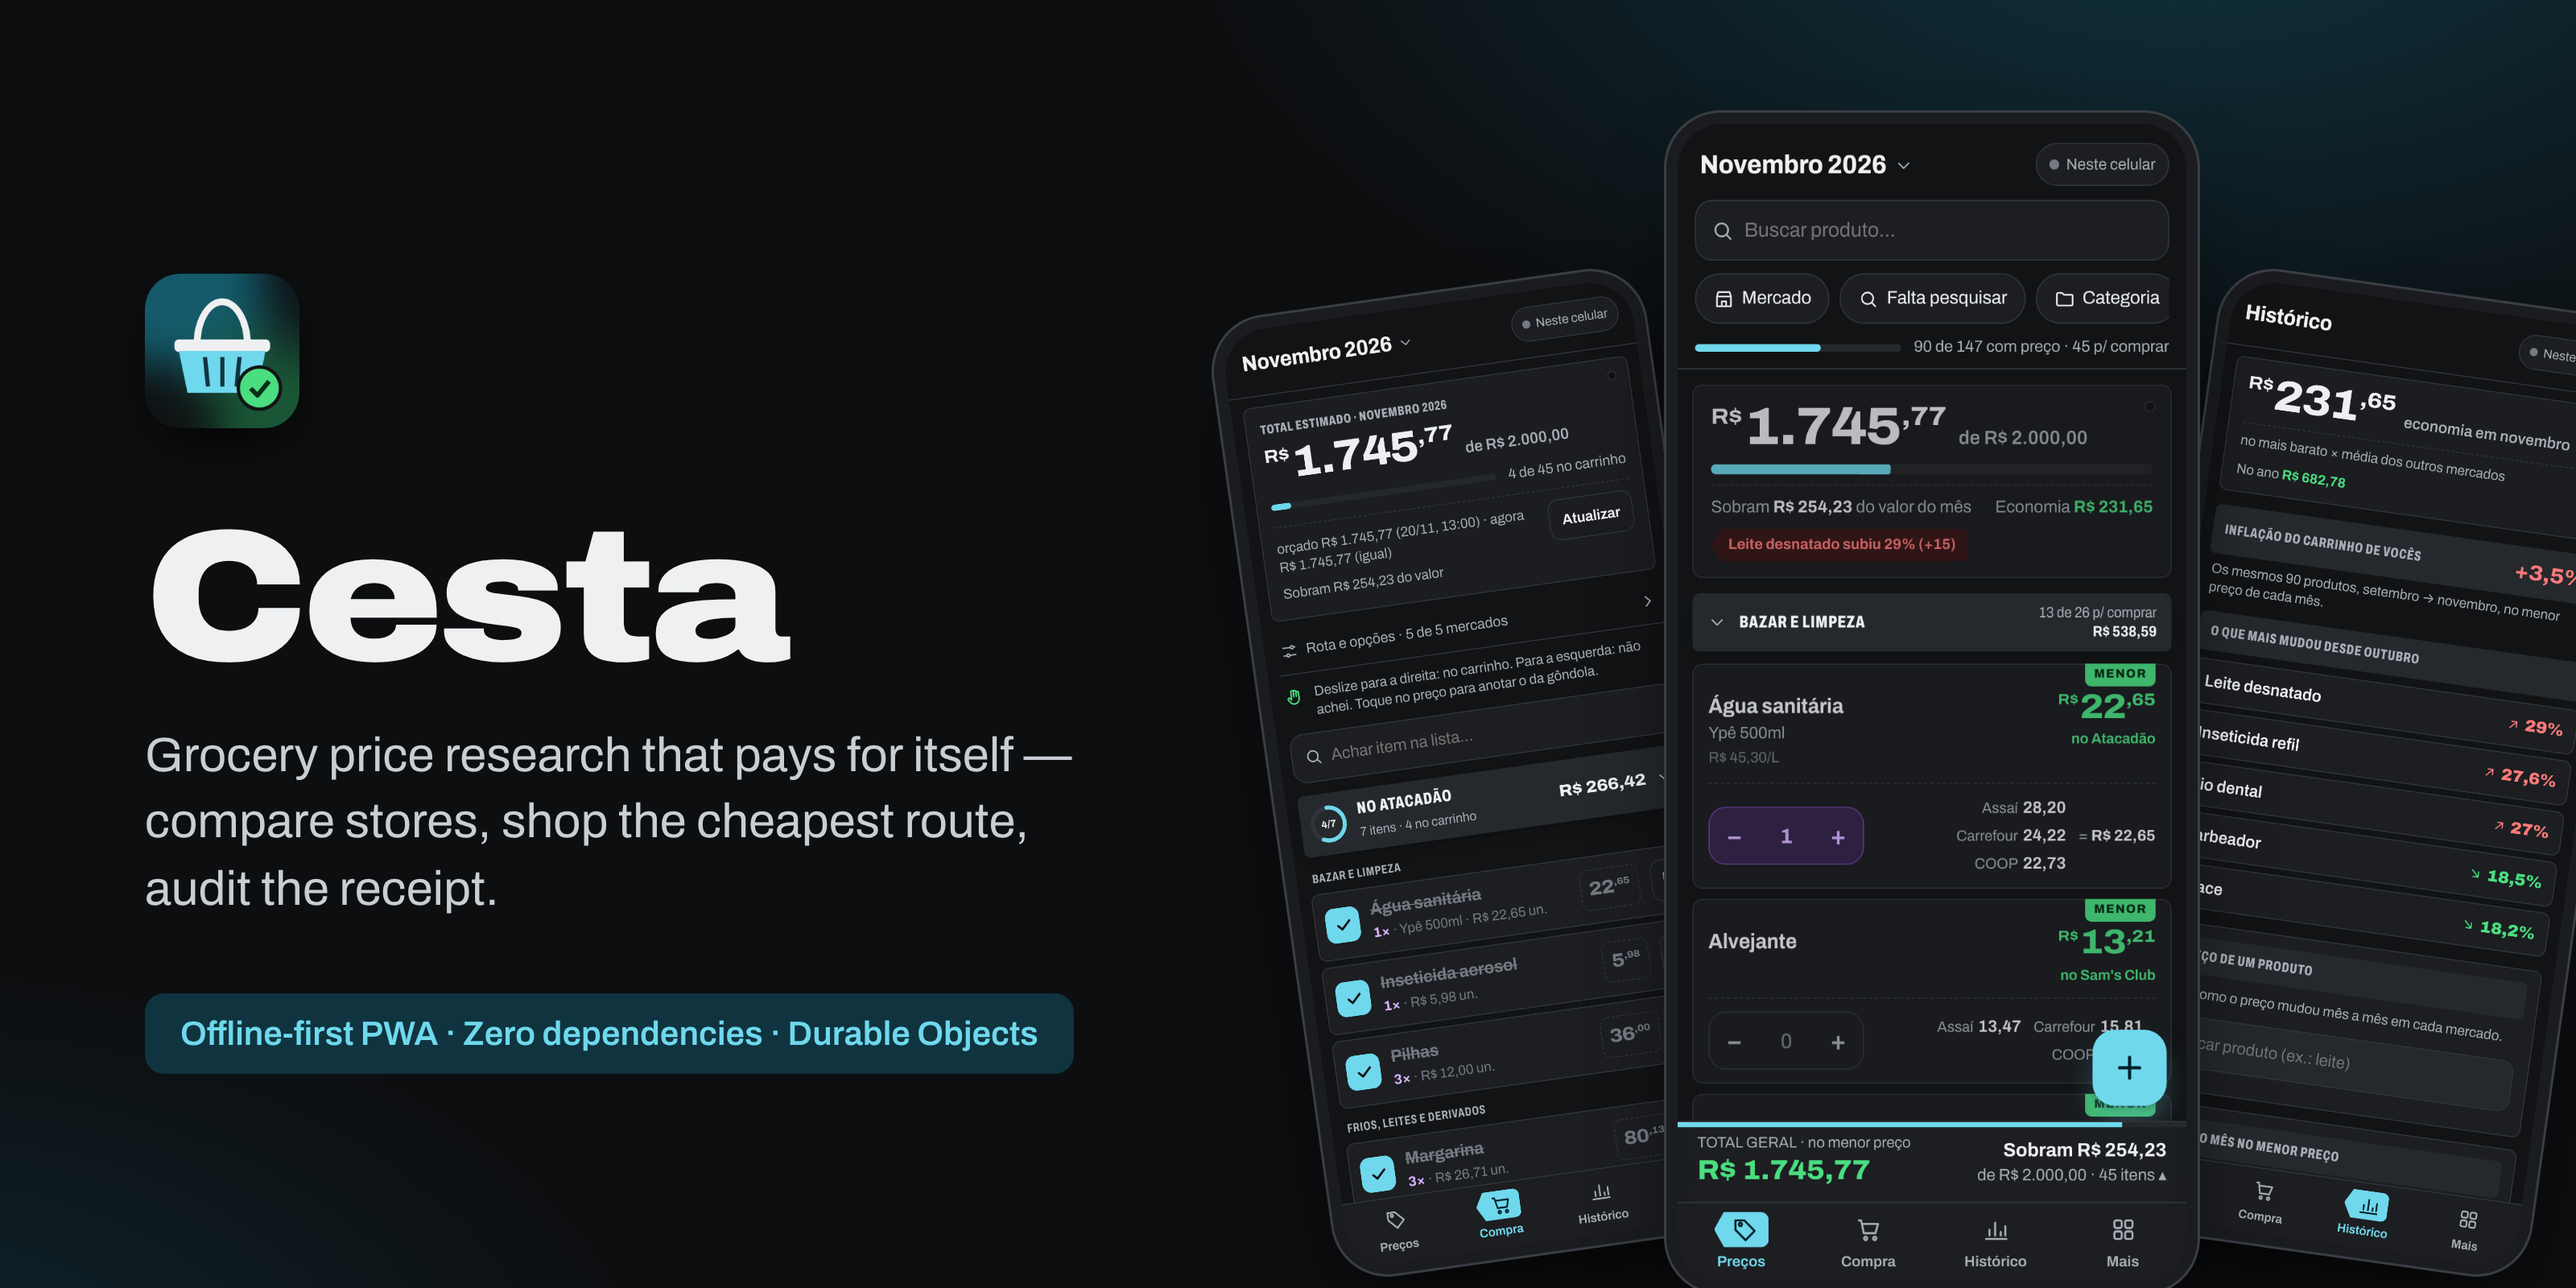
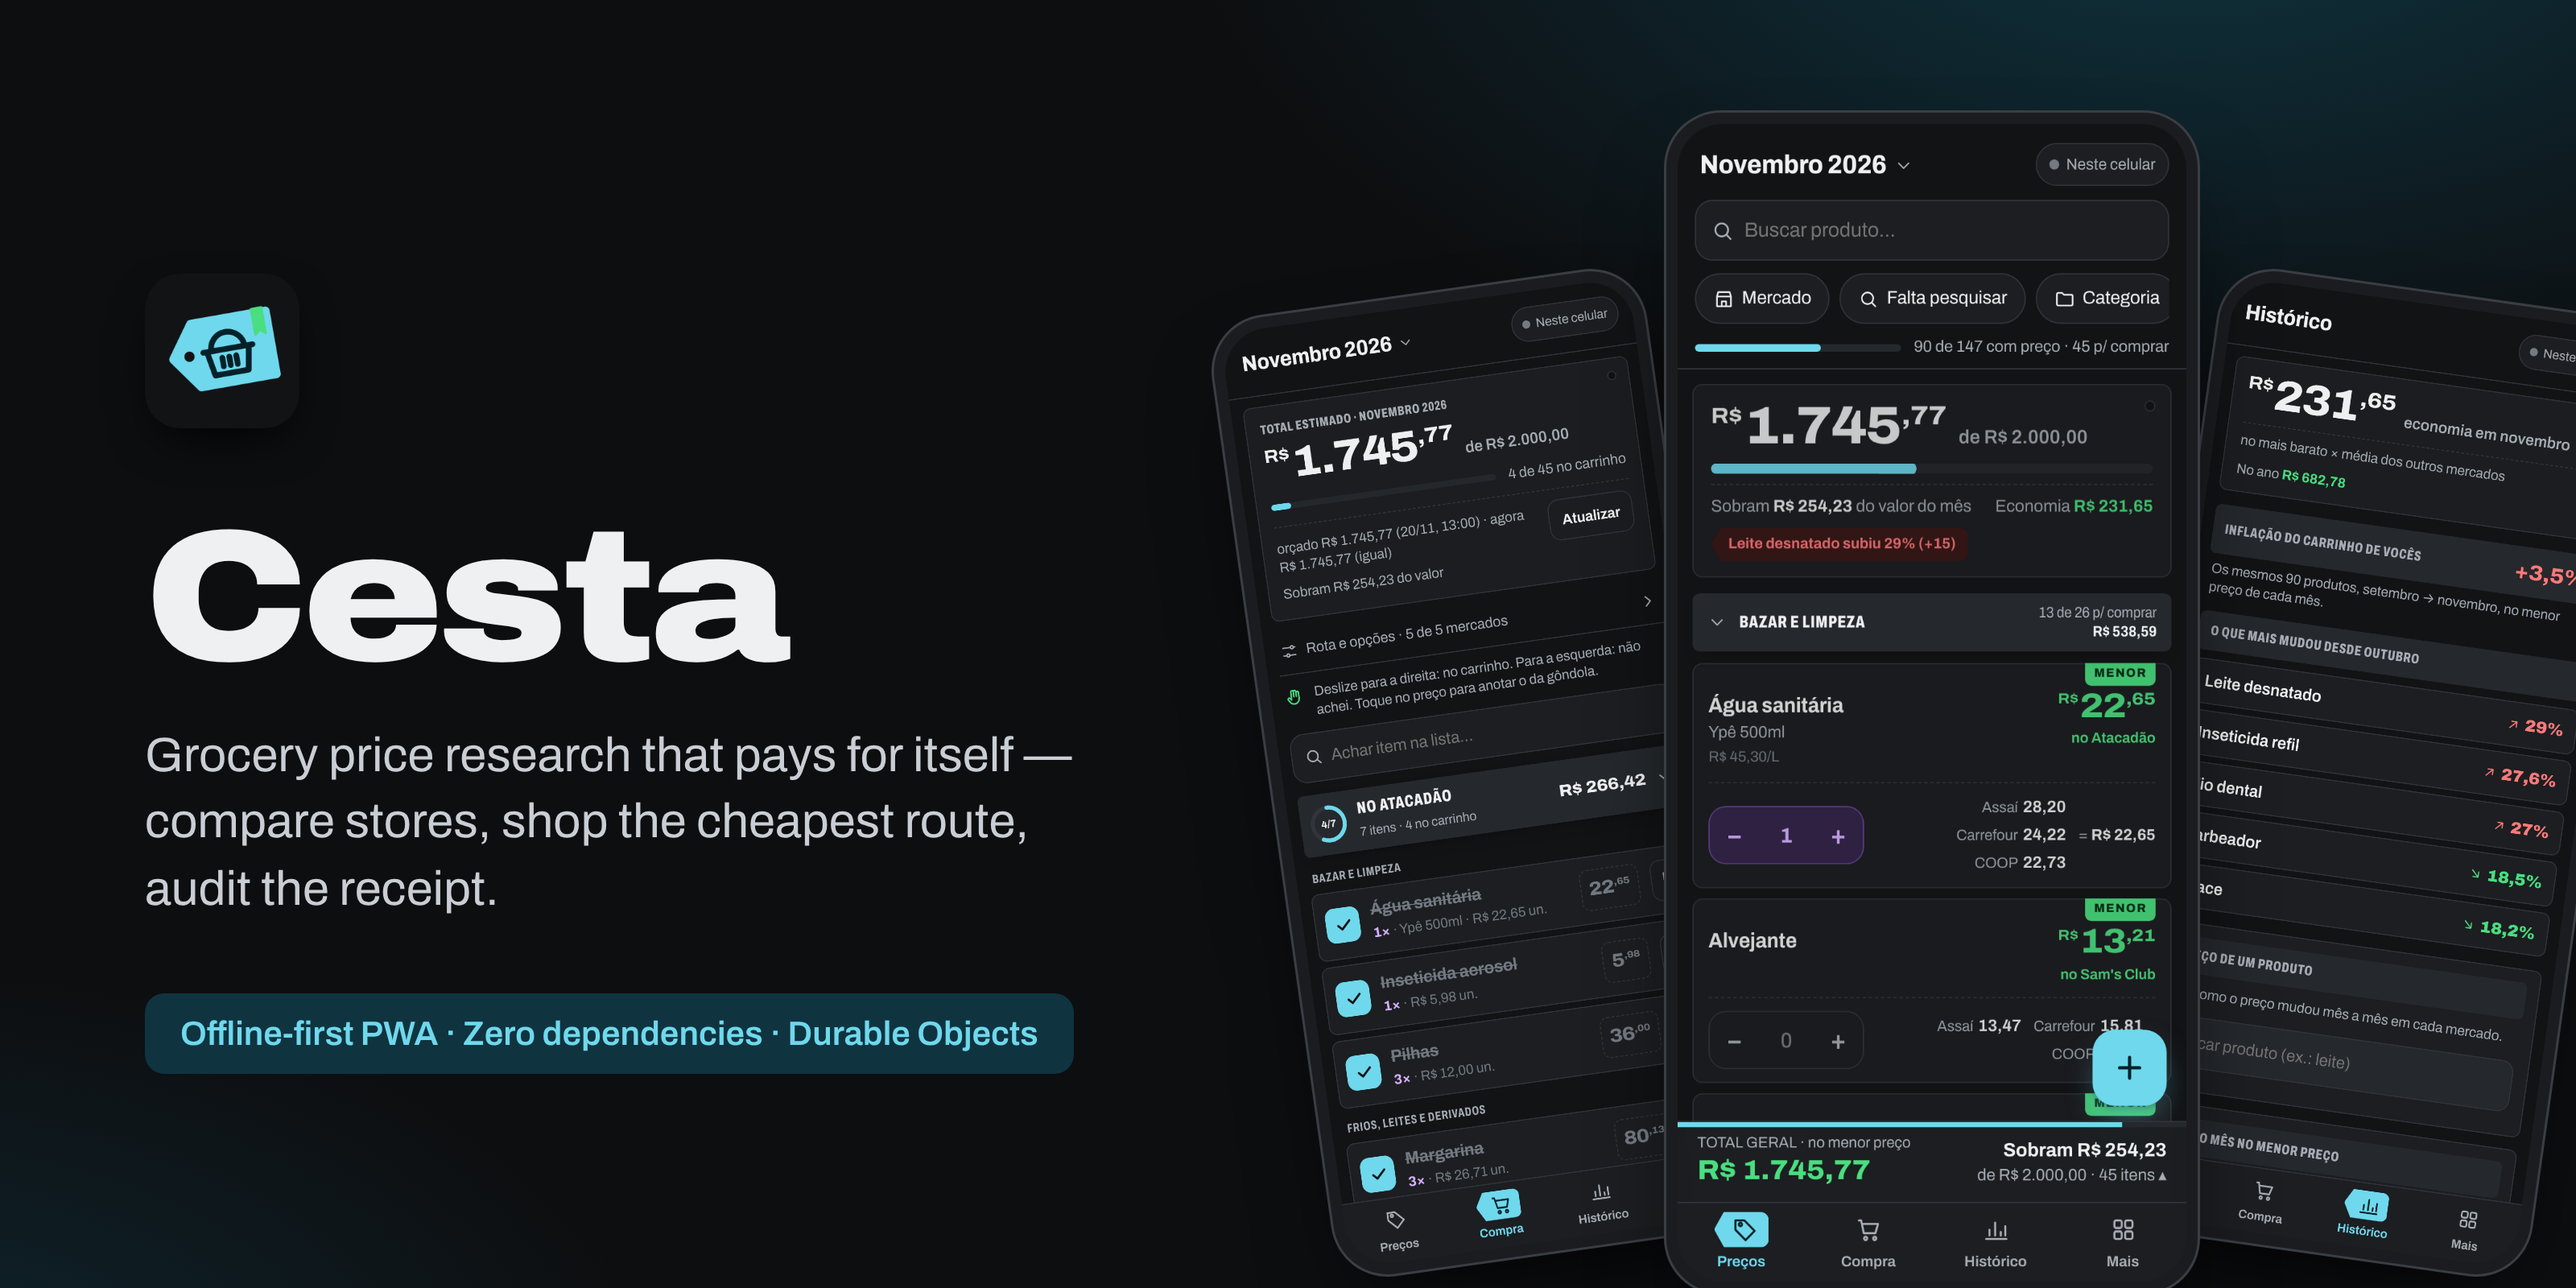
Vitrine na 1.14.1: ícone novo (capa e app), scripts atualizados
Claude-Session: https://claude.ai/code/session_01LXQ9tCHVjJvAX95Gk39t66

diff --git a/app/sw.js b/app/sw.js
@@ -1,13 +1,13 @@
 // Service worker: guarda o app no celular para abrir sem internet.
 // Ao mudar qualquer arquivo do app, suba a versão em CACHE (e VERSAO em js/app.js).
-const CACHE = 'cesta-v17';
+const CACHE = 'cesta-v18';
 const ARQUIVOS = [
   './', 'app.css', 'manifest.webmanifest',
   'js/app.js', 'js/ctx.js', 'js/modelo.js', 'js/banco.js', 'js/sinc.js', 'js/ui.js', 'js/lista.js',
   'js/compra.js', 'js/orcamento.js', 'js/historico.js', 'js/ajustes.js', 'js/planilha.js', 'js/padrao.js', 'js/novidades.js',
   'js/marcas.js', 'js/grade.js', 'js/nota.js', 'js/notas.js', 'js/dieta.js', 'js/assistente.js', 'js/demo.js',
   'fonts/archivo.woff2',
-  'icons/icon-192.png', 'icons/icon-512.png', 'icons/maskable-512.png', 'icons/apple-touch-icon.png',
+  'icons/icone.svg', 'icons/icon-192.png', 'icons/icon-512.png', 'icons/maskable-512.png', 'icons/apple-touch-icon.png',
 ];
 
 // O Cloudflare redireciona /index.html → /; resposta "redirecionada" no cache quebra a abertura offline.

diff --git a/app/js/novidades.js b/app/js/novidades.js
@@ -6,6 +6,12 @@ import { h, folha } from './ui.js';
 
 export const NOVIDADES = [
   {
+    versao: '1.14.1', titulo: 'Ícone novo',
+    itens: [
+      ['🏷', 'Ícone com o visual novo', 'O ícone do Cesta agora é uma etiqueta de gôndola com a cestinha e a fita verde do menor preço, igual ao resto do app. No celular ele troca sozinho em alguns dias; se quiser na hora, remova o atalho da tela inicial e instale o app de novo pelo Chrome (os dados continuam).'],
+    ],
+  },
+  {
     versao: '1.14.0', titulo: 'O Claude lê as ideias sozinho',
     itens: [
       ['💡', 'Sem copiar e colar', 'As ideias e problemas que vocês mandam em Mais → Ideias agora chegam sozinhas ao Claude, pelo “Conector do Claude” (ligue uma vez em Mais → Ideias). Quando a mudança fica pronta, ele mesmo marca como resolvida e deixa uma resposta aqui.'],

diff --git a/app/js/app.js b/app/js/app.js
@@ -18,7 +18,7 @@ import { abrirOtimizar } from './assistente.js';
 import { DEMO, prepararDemo, seloDemo } from './demo.js';
 import { cartoes as cartoesOrcamento, barra as barraOrcamento, frase as fraseOrcamento, abrirValor } from './orcamento.js';
 
-app.versao = '1.14.0';
+app.versao = '1.14.1';
 
 // ---------- preferências deste celular ----------
 function lerPrefs() { try { return JSON.parse(localStorage.getItem('cesta.prefs')) || {}; } catch { return {}; } }

diff --git a/app/index.html b/app/index.html
@@ -8,7 +8,8 @@
   <meta name="theme-color" content="#121315">
   <meta name="color-scheme" content="dark light">
   <link rel="manifest" href="manifest.webmanifest">
-  <link rel="icon" href="icons/icon-192.png">
+  <link rel="icon" href="icons/icone.svg" type="image/svg+xml">
+  <link rel="icon" href="icons/icon-192.png" sizes="192x192">
   <link rel="apple-touch-icon" href="icons/apple-touch-icon.png">
   <link rel="stylesheet" href="app.css">
   <script>

diff --git a/README.md b/README.md
@@ -20,10 +20,10 @@ where each item is cheapest and the best route of stores to visit, turns into a 
 electronic receipt afterwards to check what was really charged.**
 
 It was built for the person who does the family's shopping and has been used every month since October 2026, replacing a
-spreadsheet with one tab per month. Sixteen releases later it also prices the family's diet for the nutrition app (Mesa) and hands the family's feedback
+spreadsheet with one tab per month. Seventeen releases later it also prices the family's diet for the nutrition app (Mesa) and hands the family's feedback
 straight to Claude through its own connector.
 
-**At a glance:** 16 releases · used monthly since Oct 2026 · 5 stores × 147 products · 0 dependencies · works fully offline
+**At a glance:** 17 releases · used monthly since Oct 2026 · 5 stores × 147 products · 0 dependencies · works fully offline
 
 > The live demo opens with the ready-made list of 147 products and three months of **fictitious prices** in five stores,
 > generated in your browser. It works offline; nothing leaves your browser.

diff --git a/README.pt-BR.md b/README.pt-BR.md
@@ -20,10 +20,10 @@ cada item sai mais barato e a melhor rota de mercados, vira lista de compra na h
 para conferir o que foi cobrado de verdade.**
 
 Foi feita para quem faz as compras da família e é usada todo mês desde outubro de 2026, no lugar de uma planilha com uma
-aba por mês. Dezesseis versões depois, ela também dá preço à dieta da família para o app de alimentação (Mesa) e entrega as ideias da
+aba por mês. Dezessete versões depois, ela também dá preço à dieta da família para o app de alimentação (Mesa) e entrega as ideias da
 família direto ao Claude, por um conector próprio.
 
-**Em números:** 16 versões · uso mensal desde out/2026 · 5 mercados × 147 produtos · 0 dependências · funciona 100% offline
+**Em números:** 17 versões · uso mensal desde out/2026 · 5 mercados × 147 produtos · 0 dependências · funciona 100% offline
 
 > A demonstração ao vivo abre com a lista pronta de 147 produtos e três meses de **preços fictícios** em cinco mercados,
 > gerados no seu navegador. Funciona offline; nada sai do seu navegador.

diff --git a/docs/case-study.pt-BR.md b/docs/case-study.pt-BR.md
@@ -2,7 +2,7 @@
 
 *[Read in English](case-study.md)*
 
-**Papel:** produto, UX e engenharia, de ponta a ponta · **Período:** out/2026 – hoje, 16 versões · **Usuários:** quem faz as
+**Papel:** produto, UX e engenharia, de ponta a ponta · **Período:** out/2026 – hoje, 17 versões · **Usuários:** quem faz as
 compras da família, todo mês (dois celulares sincronizados)
 
 ## O problema

diff --git a/docs/case-study.md b/docs/case-study.md
@@ -2,7 +2,7 @@
 
 *[Leia em português](case-study.pt-BR.md)*
 
-**Role:** product, UX and engineering, end to end · **Period:** Oct 2026 – today, 16 releases · **Users:** the person who
+**Role:** product, UX and engineering, end to end · **Period:** Oct 2026 – today, 17 releases · **Users:** the person who
 does the family's shopping, every month (two phones in sync)
 
 ## The problem
